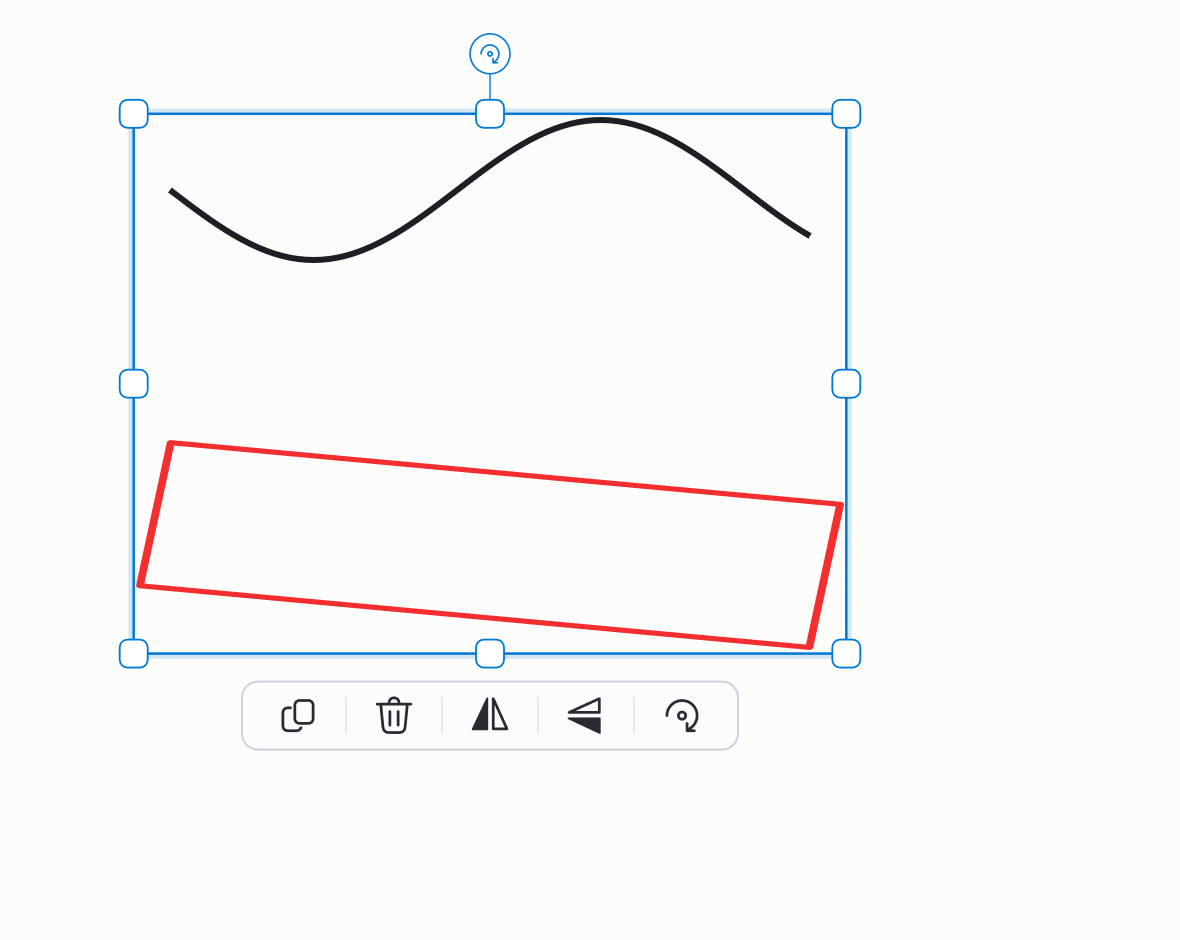
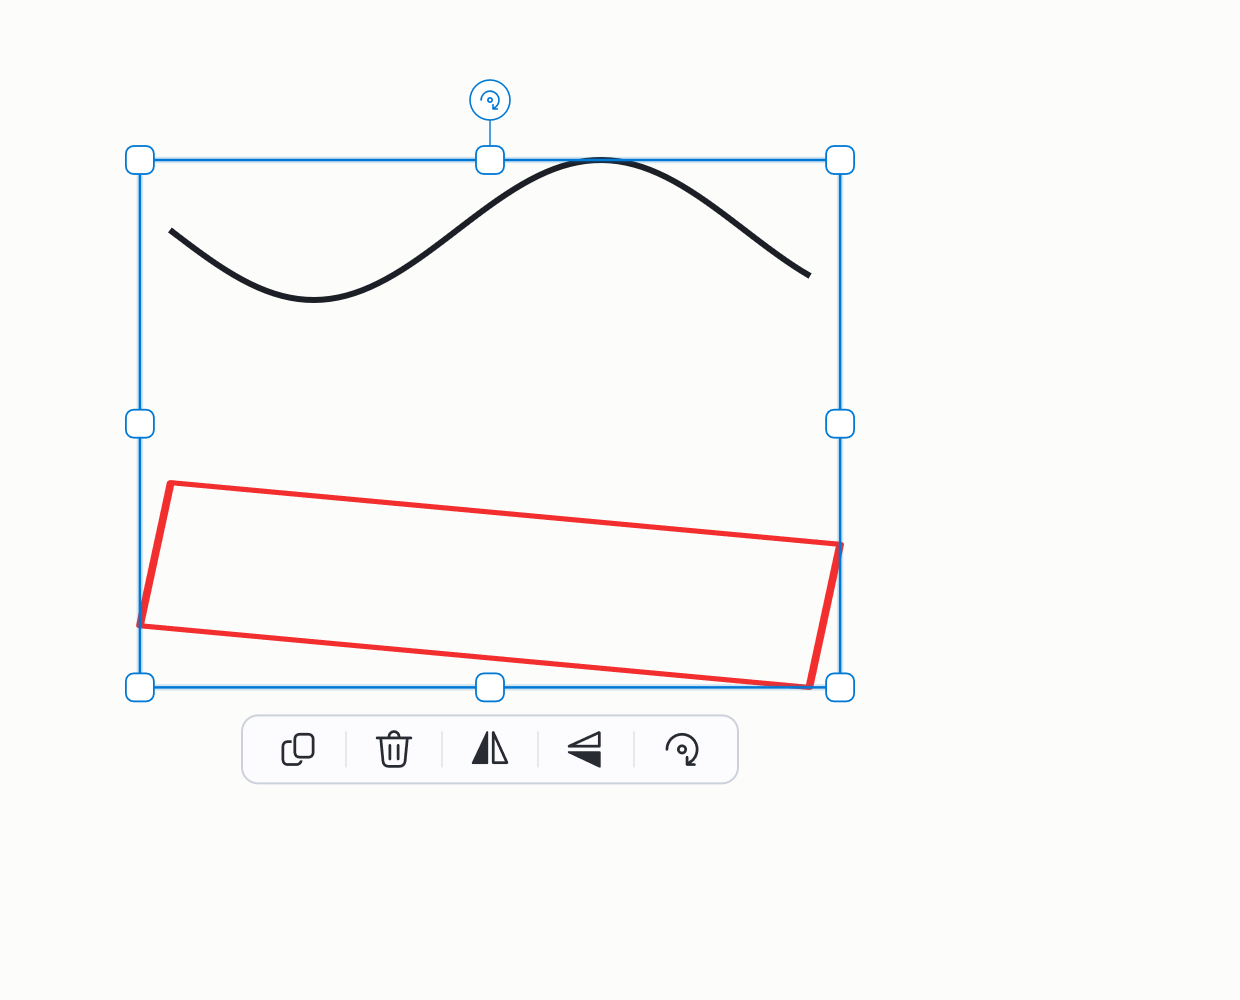
阶段 2-7：选中框跟随变换（1b）
用户实测：旋转手柄转起来时，框不跟着转，看着不对。

查了惯例（Figma / PowerPoint / Illustrator）：
- 单选 → 框跟着对象转（用对象自己的坐标系）
- 多选 → 框是轴对齐的（多个对象朝向不同时，硬凑"整体朝向"只会让人看不懂）

所以不把所有东西都改成带朝向，只让单选走对象坐标系，多选保持轴对齐。
两种情形统一成「一个矩形 + 一个框→画布的变换」，轴对齐只是单位矩阵的特例。

Selection.cs：
- 新增 SelectionFrame（Local 矩形 + ToCanvas 变换 + CanvasAabb）
- FrameOf()：单选用 Bounds×Transform，多选用并集的轴对齐矩形
- CanvasPosition()：手柄位置在框坐标里算，再变换到画布
- HitTest / DragMatrix 增加 frame 版本，轴对齐情形退化成原实现
- 开销 O(1)，与选区大小、画面批注数量无关

渲染（Overlay）：
- 边框改用 DrawQuad 画四条线（框是斜的，DrawRectangle 画不了）
- 手柄位置改走 CanvasPosition
- 瞬态脏区改用 frame.CanvasAabb，旋转手柄位置也用框坐标算
  （框斜的时候它不在轴对齐范围的正上方，用 AABB 推会漏脏区）

引擎（Engine）：
- 拖动换算在框坐标里做（缩放的锚点是"对角那个手柄"，只有在框坐标里
  才是"沿框的两条边"），再**共轭**回画布坐标：M = F⁻¹ · M_local · F
- 整体移动例外：必须在画布坐标里算，框斜的时候共轭会走偏方向
- 翻转绕框自己的轴（斜对象在自己坐标系里翻，而不是绕屏幕竖直线）

回归：edittest / handletest / transformtest / savetest / shapetest / 橡皮 全 PASS。

Changed region(s): [[0.0915, 0.0309, 0.7322, 0.8021], [0.5797, 0.216, 0.6102, 0.2468]]

diff --git a/src/InkEngine/Selection.cs b/src/InkEngine/Selection.cs
@@ -12,6 +12,58 @@ internal enum SelHandle
 }
 
 /// <summary>
+/// 选中框的坐标系 = 一个矩形 + 一个"框坐标 → 画布坐标"的变换。
+///
+/// **单选**：用对象自己的坐标系（局部包围盒 + 它的变换），所以框和手柄跟着对象
+/// 一起转。这是主流软件的行为（Figma / PowerPoint / Illustrator 都是）。
+/// **多选**：用画布坐标下的轴对齐包围盒。多个对象朝向不同时，硬凑一个"整体朝向"
+/// 只会让人看不懂——所以这里刻意不做。
+///
+/// 这么分的好处：两种情形的数学是同一套。手柄位置在框坐标里算，再变换到画布；
+/// 命中判定把指针反变换回框坐标。轴对齐只是"变换为单位矩阵"的特例。
+/// **开销是 O(1)**：一个矩形、一个 3×2 矩阵，跟选区里有几个对象、画面上有
+/// 多少批注都没关系。
+/// </summary>
+internal struct SelectionFrame
+{
+    /// <summary>框坐标下的矩形。</summary>
+    public RectF Local;
+    /// <summary>框坐标 → 画布坐标。</summary>
+    public Matrix3x2 ToCanvas;
+
+    public bool IsEmpty => Local.IsEmpty;
+
+    public Vector2 ToCanvasPoint(Vector2 p) => Vector2.Transform(p, ToCanvas);
+
+    /// <summary>把画布坐标的点变回框坐标（命中判定用）。</summary>
+    public Vector2 ToLocalPoint(Vector2 p)
+    {
+        if (ToCanvas.IsIdentity) return p;
+        return Matrix3x2.Invert(ToCanvas, out var inv) ? Vector2.Transform(p, inv) : p;
+    }
+
+    /// <summary>
+    /// 框在画布上占的轴对齐矩形。脏区、操作条定位用它——
+    /// 框本身可能是斜的，但"它占了屏幕上哪一块"永远是个正矩形。
+    /// </summary>
+    public RectF CanvasAabb
+    {
+        get
+        {
+            if (Local.IsEmpty) return RectF.Empty;
+            if (ToCanvas.IsIdentity) return Local;
+            var p0 = ToCanvasPoint(new Vector2(Local.MinX, Local.MinY));
+            var p1 = ToCanvasPoint(new Vector2(Local.MaxX, Local.MinY));
+            var p2 = ToCanvasPoint(new Vector2(Local.MaxX, Local.MaxY));
+            var p3 = ToCanvasPoint(new Vector2(Local.MinX, Local.MaxY));
+            var r = RectF.Empty;
+            r.Add(p0.X, p0.Y); r.Add(p1.X, p1.Y); r.Add(p2.X, p2.Y); r.Add(p3.X, p3.Y);
+            return r;
+        }
+    }
+}
+
+/// <summary>
 /// 选中框的手柄布局，以及"拖动某个手柄 → 变换矩阵"的换算。
 ///
 /// **这一层只有数学，没有一行绘制。** 分开的好处有两个：
@@ -90,6 +142,73 @@ internal static class SelectionHandles
         if (h == SelHandle.Rotate) y -= RotateOffsetLogical * dpiScale;
         return new Vector2(x, y);
     }
+
+    /// <summary>手柄在**画布坐标**里的位置。</summary>
+    public static Vector2 CanvasPosition(SelHandle h, in SelectionFrame f, float dpiScale)
+        => f.ToCanvasPoint(Position(h, f.Local, dpiScale));
+
+    /// <summary>
+    /// 算当前选区的坐标系。单选跟对象转，多选轴对齐（理由见 SelectionFrame 的注释）。
+    /// </summary>
+    public static SelectionFrame FrameOf(IReadOnlyList<Stroke> sel)
+    {
+        if (sel == null || sel.Count == 0)
+            return new SelectionFrame { Local = RectF.Empty, ToCanvas = Matrix3x2.Identity };
+
+        if (sel.Count == 1)
+        {
+            var s = sel[0];
+            return new SelectionFrame { Local = s.Bounds, ToCanvas = s.Transform };
+        }
+
+        // 多选：把每个对象变换后的包围盒并起来，作为轴对齐的框。
+        var r = RectF.Empty;
+        foreach (var s in sel)
+        {
+            var one = new SelectionFrame { Local = s.Bounds, ToCanvas = s.Transform };
+            r.Add(one.CanvasAabb);
+        }
+        return new SelectionFrame { Local = r, ToCanvas = Matrix3x2.Identity };
+    }
+
+    /// <summary>按给定的选区坐标系做手柄命中判定。</summary>
+    public static SelHandle HitTest(float canvasX, float canvasY, in SelectionFrame f,
+                                    float dpiScale, bool includeEdgeHandles = true)
+    {
+        float r = HitRadiusLogical * dpiScale;
+        var p = new Vector2(canvasX, canvasY);
+
+        // 旋转手柄先测：它在框外，不会和四角重叠，但它离上边中点最近，
+        // 先测它能避免两个窄命中区互相抢。
+        if (Vector2.DistanceSquared(p, CanvasPosition(SelHandle.Rotate, f, dpiScale)) <= r * r)
+            return SelHandle.Rotate;
+
+        Span<SelHandle> order = stackalloc SelHandle[]
+        {
+            SelHandle.TopLeft, SelHandle.TopRight, SelHandle.BottomLeft, SelHandle.BottomRight,
+            SelHandle.Top, SelHandle.Bottom, SelHandle.Left, SelHandle.Right,
+        };
+        foreach (var h in order)
+        {
+            bool isEdge = h is SelHandle.Top or SelHandle.Bottom or SelHandle.Left or SelHandle.Right;
+            if (isEdge && !includeEdgeHandles) continue;
+            if (Vector2.DistanceSquared(p, CanvasPosition(h, f, dpiScale)) <= r * r) return h;
+        }
+        return SelHandle.None;
+    }
+
+    /// <summary>
+    /// 拖动换算。返回的是**框坐标**下的矩阵；调用方要把它共轭回画布坐标：
+    /// <c>F⁻¹ · M · F</c>（见 InkEngine.UpdateSelDrag）。
+    ///
+    /// 为什么不在画布坐标里直接算：框是斜的，而缩放的锚点是"对角那个手柄"，
+    /// 在斜的坐标系里做轴向缩放，只有在框坐标里才是"沿框的两条边"。
+    /// </summary>
+    public static Matrix3x2 DragMatrix(SelHandle handle, in SelectionFrame f,
+                                       Vector2 startPoint, Vector2 currentPoint,
+                                       float dpiScale, bool uniform, bool snapAngle)
+        => DragMatrix(handle, f.Local, f.ToLocalPoint(startPoint), f.ToLocalPoint(currentPoint),
+                      dpiScale, uniform, snapAngle);
 
     /// <summary>
     /// 点到哪个手柄上了。返回 <see cref="SelHandle.None"/> 表示没点中手柄

diff --git a/src/InkEngine/Engine.cs b/src/InkEngine/Engine.cs
@@ -64,7 +64,7 @@ public class InkEngine
     internal bool KeyboardMode = true;
     private SelHandle _dragHandle = SelHandle.None;
     private bool _dragIsMove;
-    private RectF _dragStartBounds;
+    private SelectionFrame _dragFrame;
     private Vector2 _dragStartPoint;
     private Matrix3x2[] _dragStartXform;
     private Stroke[] _dragTargets;
@@ -1313,20 +1313,29 @@ public class InkEngine
     {
         if (Doc.Selected.Count == 0) return false;
 
-        var sb = EditRegion.Of(Doc.Selected);
+        var frame = SelectionHandles.FrameOf(Doc.Selected);
         float dpi = DpiScale;
 
-        int btn = SelectionHandles.BarButtonAt(x, y, sb, dpi);
-        if (btn >= 0) { RunBarAction(btn, sb); return true; }
+        // 操作条定位用框的**画布轴对齐范围**：框本身可能是斜的，但"它占了屏幕上
+        // 哪一块"永远是个正矩形，操作条贴在那个矩形的下面才对。
+        var aabb = frame.CanvasAabb;
+        int btn = SelectionHandles.BarButtonAt(x, y, aabb, dpi);
+        if (btn >= 0) { RunBarAction(btn, frame, aabb); return true; }
 
-        var h = SelectionHandles.HitTest(x, y, sb, dpi);
-        bool move = h == SelHandle.None
-                 && x >= sb.MinX && x <= sb.MaxX && y >= sb.MinY && y <= sb.MaxY;
-        if (h == SelHandle.None && !move) return false;   // 落在空白处：交给框选
+        var h = SelectionHandles.HitTest(x, y, frame, dpi);
+        bool move = false;
+        if (h == SelHandle.None)
+        {
+            // 没点在手柄上：把指针变回框坐标，看是不是落在框里（整体拖动）。
+            var lp = frame.ToLocalPoint(new Vector2(x, y));
+            move = lp.X >= frame.Local.MinX && lp.X <= frame.Local.MaxX
+                && lp.Y >= frame.Local.MinY && lp.Y <= frame.Local.MaxY;
+            if (!move) return false;                      // 落在空白处：交给框选
+        }
 
         _dragHandle = h;
         _dragIsMove = move;
-        _dragStartBounds = sb;
+        _dragFrame = frame;
         _dragStartPoint = new Vector2(x, y);
         _selDragMatrix = Matrix3x2.Identity;
 
@@ -1349,10 +1358,21 @@ public class InkEngine
         var cur = new Vector2(x, y);
         bool shift = (Native.GetAsyncKeyState(0x10 /* VK_SHIFT */) & 0x8000) != 0;
 
-        var m = _dragIsMove
-            ? SelectionHandles.MoveMatrix(_dragStartPoint, cur)
-            : SelectionHandles.DragMatrix(_dragHandle, _dragStartBounds, _dragStartPoint,
-                                          cur, DpiScale, shift, shift);
+        Matrix3x2 m;
+        if (_dragIsMove)
+        {
+            // 整体移动：指针在画布上走多少，对象就走多少。**不能**在框坐标里算
+            // 再共轭回来——框是斜的时候那样会走偏方向。
+            m = Matrix3x2.CreateTranslation(cur - _dragStartPoint);
+        }
+        else
+        {
+            // 手柄换算在**框坐标**里做（缩放的锚点是"对角那个手柄"，只有在框坐标里
+            // 才是"沿着框的两条边"），再共轭回画布坐标：M = F⁻¹ · M_local · F
+            var localM = SelectionHandles.DragMatrix(_dragHandle, _dragFrame,
+                                                     _dragStartPoint, cur, DpiScale, shift, shift);
+            m = Conjugate(_dragFrame.ToCanvas, localM);
+        }
 
         for (int i = 0; i < _dragTargets.Length; i++)
         {
@@ -1398,24 +1418,43 @@ public class InkEngine
     /// 操作条按钮。下标与 SelectionHandles.BarButtonAt 的返回值和渲染时的
     /// 图标数组一一对应：0 复制 / 1 删除 / 2 左右翻转 / 3 上下翻转 / 4 旋转。
     /// </summary>
-    private void RunBarAction(int index, in RectF sel)
+    private void RunBarAction(int index, in SelectionFrame frame, in RectF aabb)
     {
         switch (index)
         {
             case 0: Doc.DuplicateSelected(); break;
             case 1: Doc.DeleteSelected(); break;
-            case 2: Doc.ApplyTransform(SelectionHandles.MirrorMatrix(sel, horizontal: true)); break;
-            case 3: Doc.ApplyTransform(SelectionHandles.MirrorMatrix(sel, horizontal: false)); break;
+
+            // 翻转绕**框自己的轴**：斜着的对象应该在自己那套坐标里翻，
+            // 而不是绕屏幕的竖直线翻——后者看起来像被转到别处去了。
+            case 2: Doc.ApplyTransform(Conjugate(frame.ToCanvas,
+                        SelectionHandles.MirrorMatrix(frame.Local, horizontal: true))); break;
+            case 3: Doc.ApplyTransform(Conjugate(frame.ToCanvas,
+                        SelectionHandles.MirrorMatrix(frame.Local, horizontal: false))); break;
+
             case 4:
             {
-                // 每次转 90°；连点四次回到原样。
-                var c = new Vector2((sel.MinX + sel.MaxX) * 0.5f, (sel.MinY + sel.MaxY) * 0.5f);
+                // 每次转 90°；连点四次回到原样。绕框的画布中心转。
+                var c = new Vector2((aabb.MinX + aabb.MaxX) * 0.5f, (aabb.MinY + aabb.MaxY) * 0.5f);
                 Doc.ApplyTransform(Matrix3x2.CreateRotation(MathF.PI / 2f, c));
                 break;
             }
         }
         Laser.Clear();
         _dirty = true;
+    }
+
+    /// <summary>
+    /// 把"框坐标下的变换"翻译成"画布坐标下的变换"：<c>F⁻¹ · M · F</c>。
+    ///
+    /// 框是斜的时候，同一句"沿框的横轴放大两倍"在画布坐标里是个斜的缩放。
+    /// 共轭就是在两套坐标之间翻译这件事——不用为"斜着的情况"另写一套公式。
+    /// </summary>
+    private static Matrix3x2 Conjugate(in Matrix3x2 frame, in Matrix3x2 localM)
+    {
+        if (frame.IsIdentity) return localM;
+        if (!Matrix3x2.Invert(frame, out var inv)) return localM;
+        return inv * localM * frame;
     }
     // =====================================================================
     //  批注键盘模式

diff --git a/src/InkEngine/Overlay.cs b/src/InkEngine/Overlay.cs
@@ -958,12 +958,13 @@ internal sealed class OverlayWindow : IDisposable
         // 旋转手柄旁边留了一小块红色的前帧残留）。
         if (app.Doc.Selected.Count > 0)
         {
-            var sb = EditRegion.Of(app.Doc.Selected);
+            var frame = SelectionHandles.FrameOf(app.Doc.Selected);
+            var sb = frame.CanvasAabb;
             float dpi = app.DpiScale;
             float margin = SelectionHandles.VisualSizeLogical * 0.5f * dpi + 6f;
             var ui = sb.Inflate(margin);
 
-            var rot = SelectionHandles.Position(SelHandle.Rotate, sb, dpi);
+            var rot = SelectionHandles.CanvasPosition(SelHandle.Rotate, frame, dpi);
             float grip = SelectionHandles.RotateGripLogical * 0.5f * dpi + 3f;
             ui.Add(rot.X - grip, rot.Y - grip);
             ui.Add(rot.X + grip, rot.Y + grip);
@@ -1069,28 +1070,33 @@ internal sealed class OverlayWindow : IDisposable
         var sel = app.Doc.Selected;
         if (sel.Count == 0) return;
 
-        // 多选时画一个总框，而不是每个对象一个框——拖动就是整组一起动。
-        var b = EditRegion.Of(sel);
-        if (b.IsEmpty) return;
+        // 选区坐标系：单选跟对象转，多选轴对齐（见 SelectionFrame 的注释）。
+        var frame = SelectionHandles.FrameOf(sel);
+        if (frame.IsEmpty) return;
+        var b = frame.CanvasAabb;      // 操作条和脏区用它的轴对齐范围
 
         float dpi = app.DpiScale;
         var accent = new Color4(0f, 0.47f, 0.83f, 1f);      // #0078D4
 
+        // 框的四个角。**框本身可能是斜的**（单选一个转过角度的对象时），
+        // 所以只能用四条线画，不能用 DrawRectangle。
+        var c0 = SelectionHandles.CanvasPosition(SelHandle.TopLeft, frame, dpi);
+        var c1 = SelectionHandles.CanvasPosition(SelHandle.TopRight, frame, dpi);
+        var c2 = SelectionHandles.CanvasPosition(SelHandle.BottomRight, frame, dpi);
+        var c3 = SelectionHandles.CanvasPosition(SelHandle.BottomLeft, frame, dpi);
+
         // 1) 光晕
         _scratch.Color = new Color4(accent.R, accent.G, accent.B, 0.16f);
-        _ctx.DrawRectangle(
-            new Vortice.RawRectF(b.MinX - 2f, b.MinY - 2f, b.MaxX + 2f, b.MaxY + 2f),
-            _scratch, 6.5f);
+        DrawQuad(c0, c1, c2, c3, 6.5f);
 
         // 2) 描边
         _scratch.Color = accent;
-        var outline = new Vortice.RawRectF(b.MinX, b.MinY, b.MaxX, b.MaxY);
-        _ctx.DrawRectangle(outline, _scratch, 2.5f);
+        DrawQuad(c0, c1, c2, c3, 2.5f);
 
         // 3) 旋转手柄（在上边中点外侧，先画连线再画圆）
         float rotR = SelectionHandles.RotateGripLogical * 0.5f * dpi;
-        var rot = SelectionHandles.Position(SelHandle.Rotate, b, dpi);
-        var topCenter = new Vector2((b.MinX + b.MaxX) * 0.5f, b.MinY);
+        var rot = SelectionHandles.CanvasPosition(SelHandle.Rotate, frame, dpi);
+        var topCenter = SelectionHandles.CanvasPosition(SelHandle.Top, frame, dpi);
         _ctx.DrawLine(topCenter, rot, _scratch, 1.4f);
         var white = Brush(new Color4(1f, 1f, 1f, 1f));
         _ctx.FillEllipse(new Ellipse(rot, rotR, rotR), white);
@@ -1112,7 +1118,7 @@ internal sealed class OverlayWindow : IDisposable
         };
         foreach (var h in all)
         {
-            var p = SelectionHandles.Position(h, b, dpi);
+            var p = SelectionHandles.CanvasPosition(h, frame, dpi);
             var box = new Vortice.RawRectF(p.X - hs * 0.5f, p.Y - hs * 0.5f,
                                            p.X + hs * 0.5f, p.Y + hs * 0.5f);
             var rr = new RoundedRectangle(box, radius, radius);
@@ -1175,6 +1181,18 @@ internal sealed class OverlayWindow : IDisposable
                               new Vector2(sx, rect.MaxY - inset), sepBrush, 1f * dpi);
             }
         }
+    }
+
+    /// <summary>
+    /// 画一个四边形。选中框可能是斜的（单选一个转过角度的对象时），
+    /// DrawRectangle 只能画正矩形，所以边框用四条线拼。
+    /// </summary>
+    private void DrawQuad(Vector2 a, Vector2 b, Vector2 c, Vector2 d, float width)
+    {
+        _ctx.DrawLine(a, b, _scratch, width);
+        _ctx.DrawLine(b, c, _scratch, width);
+        _ctx.DrawLine(c, d, _scratch, width);
+        _ctx.DrawLine(d, a, _scratch, width);
     }
 
     /// <summary>
